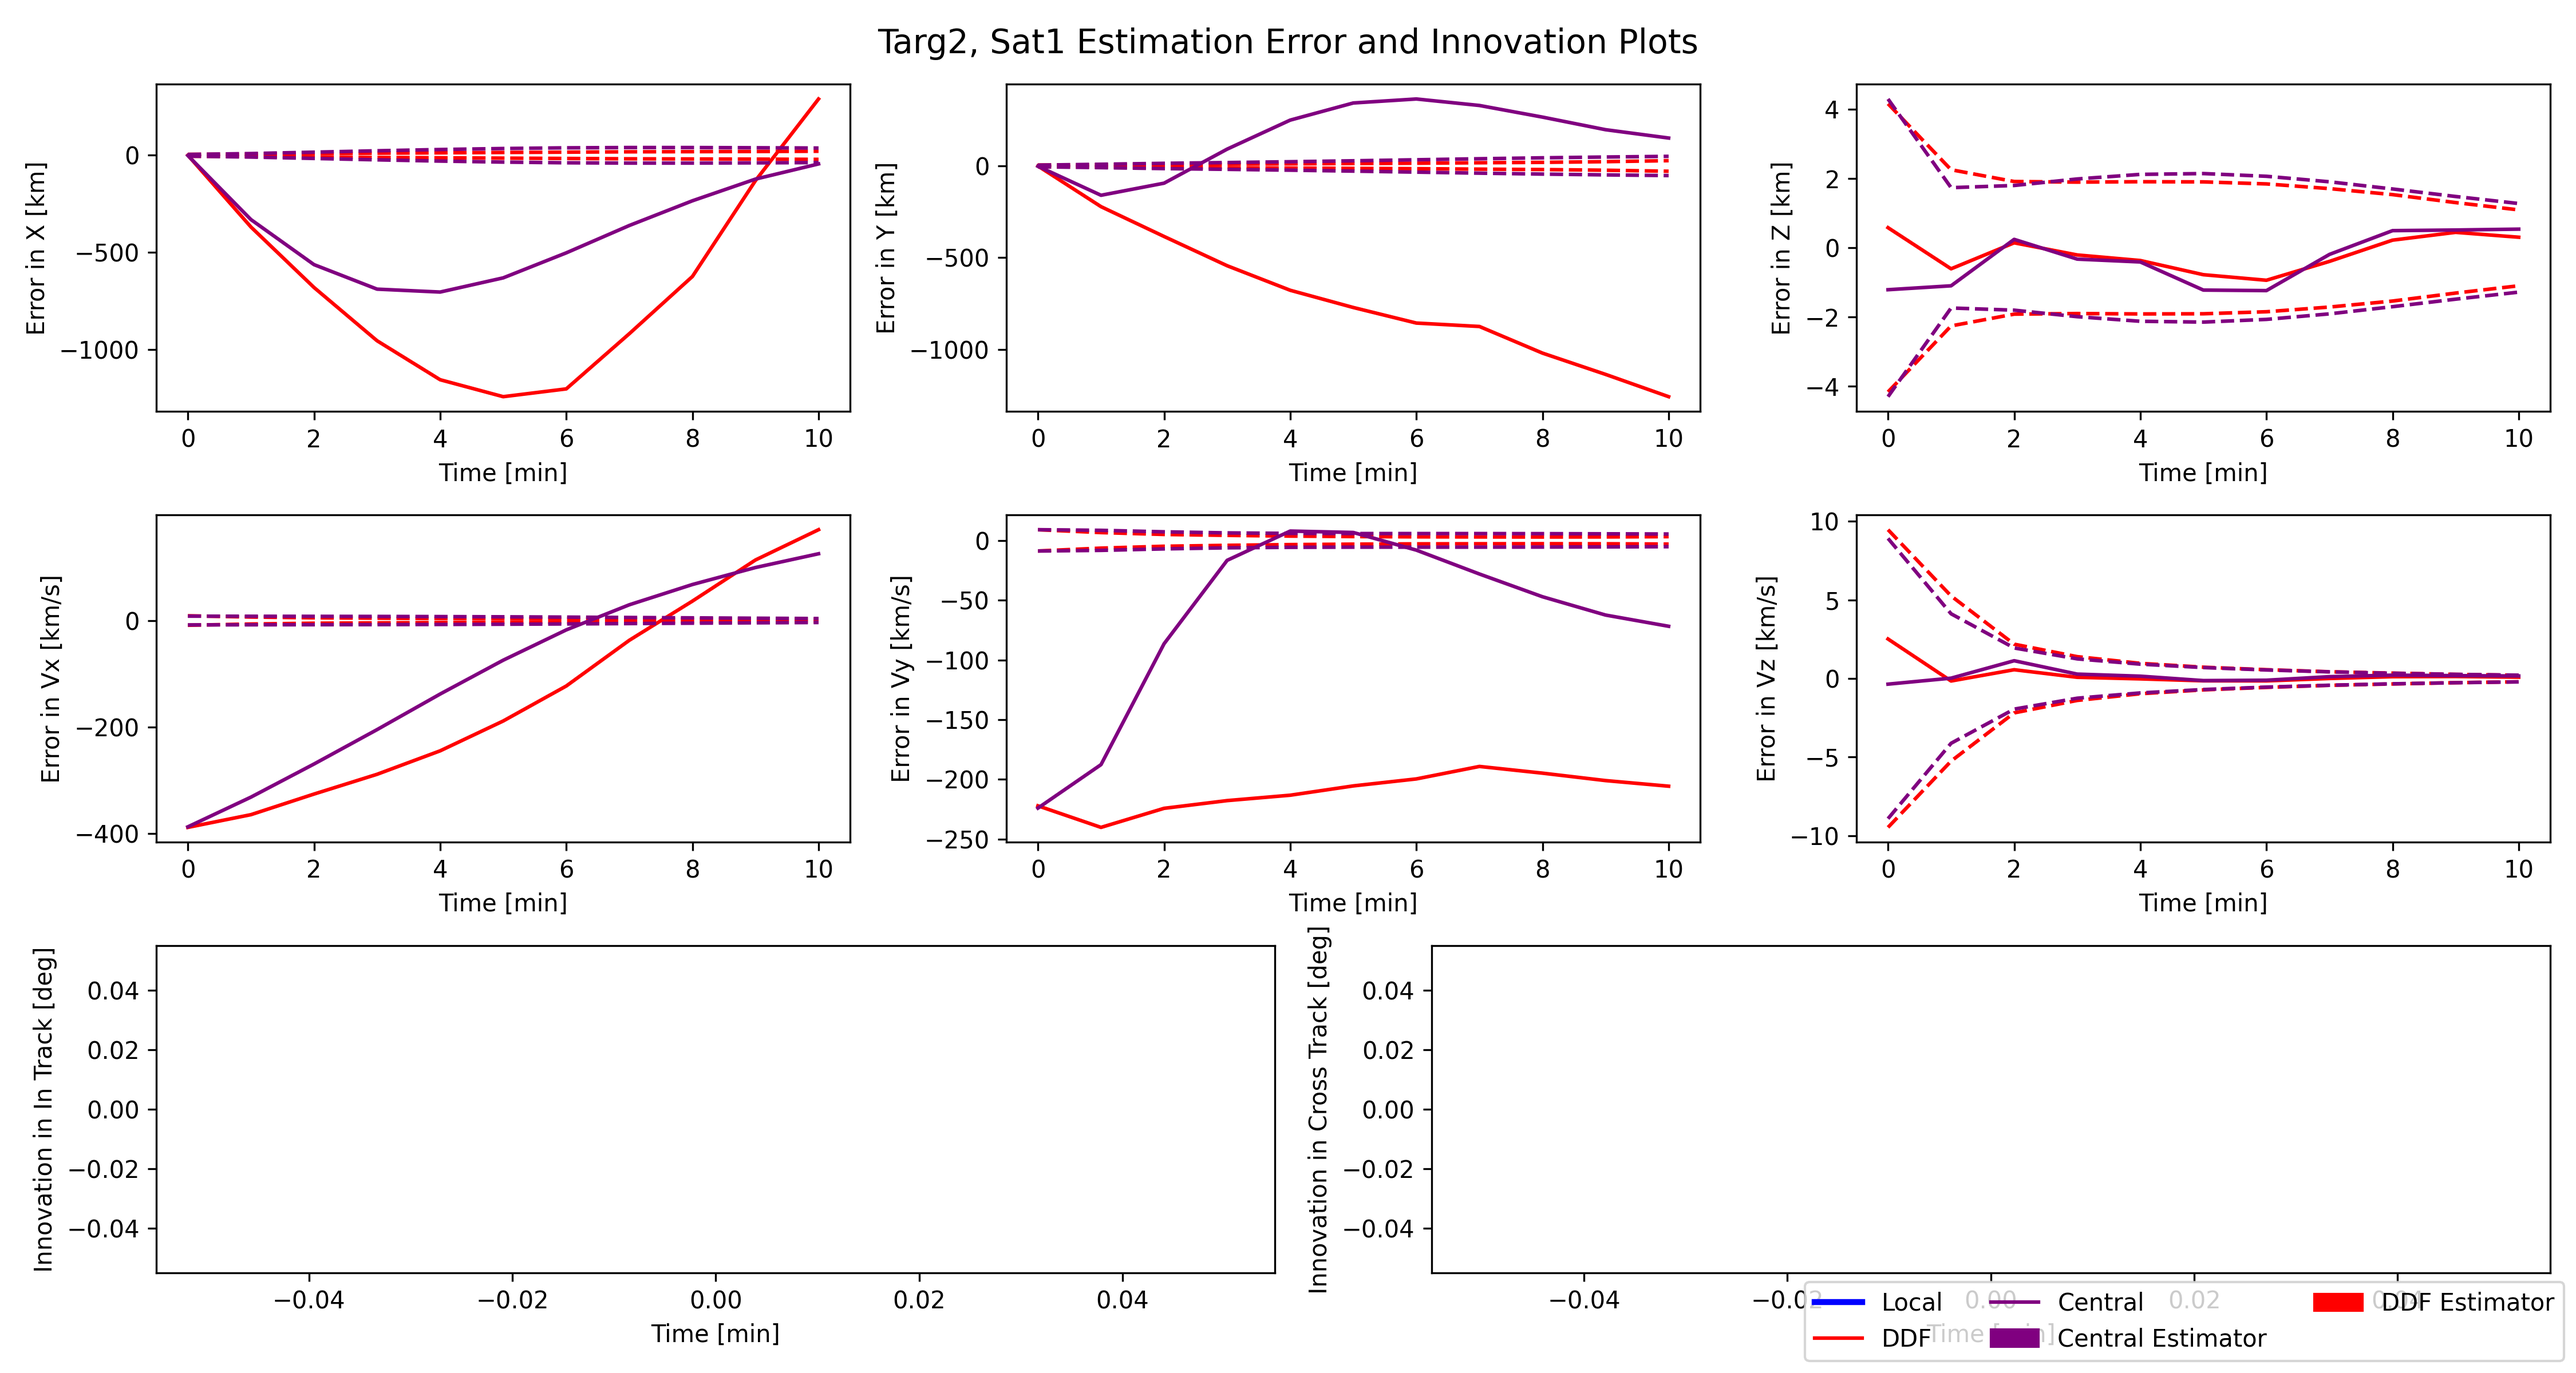
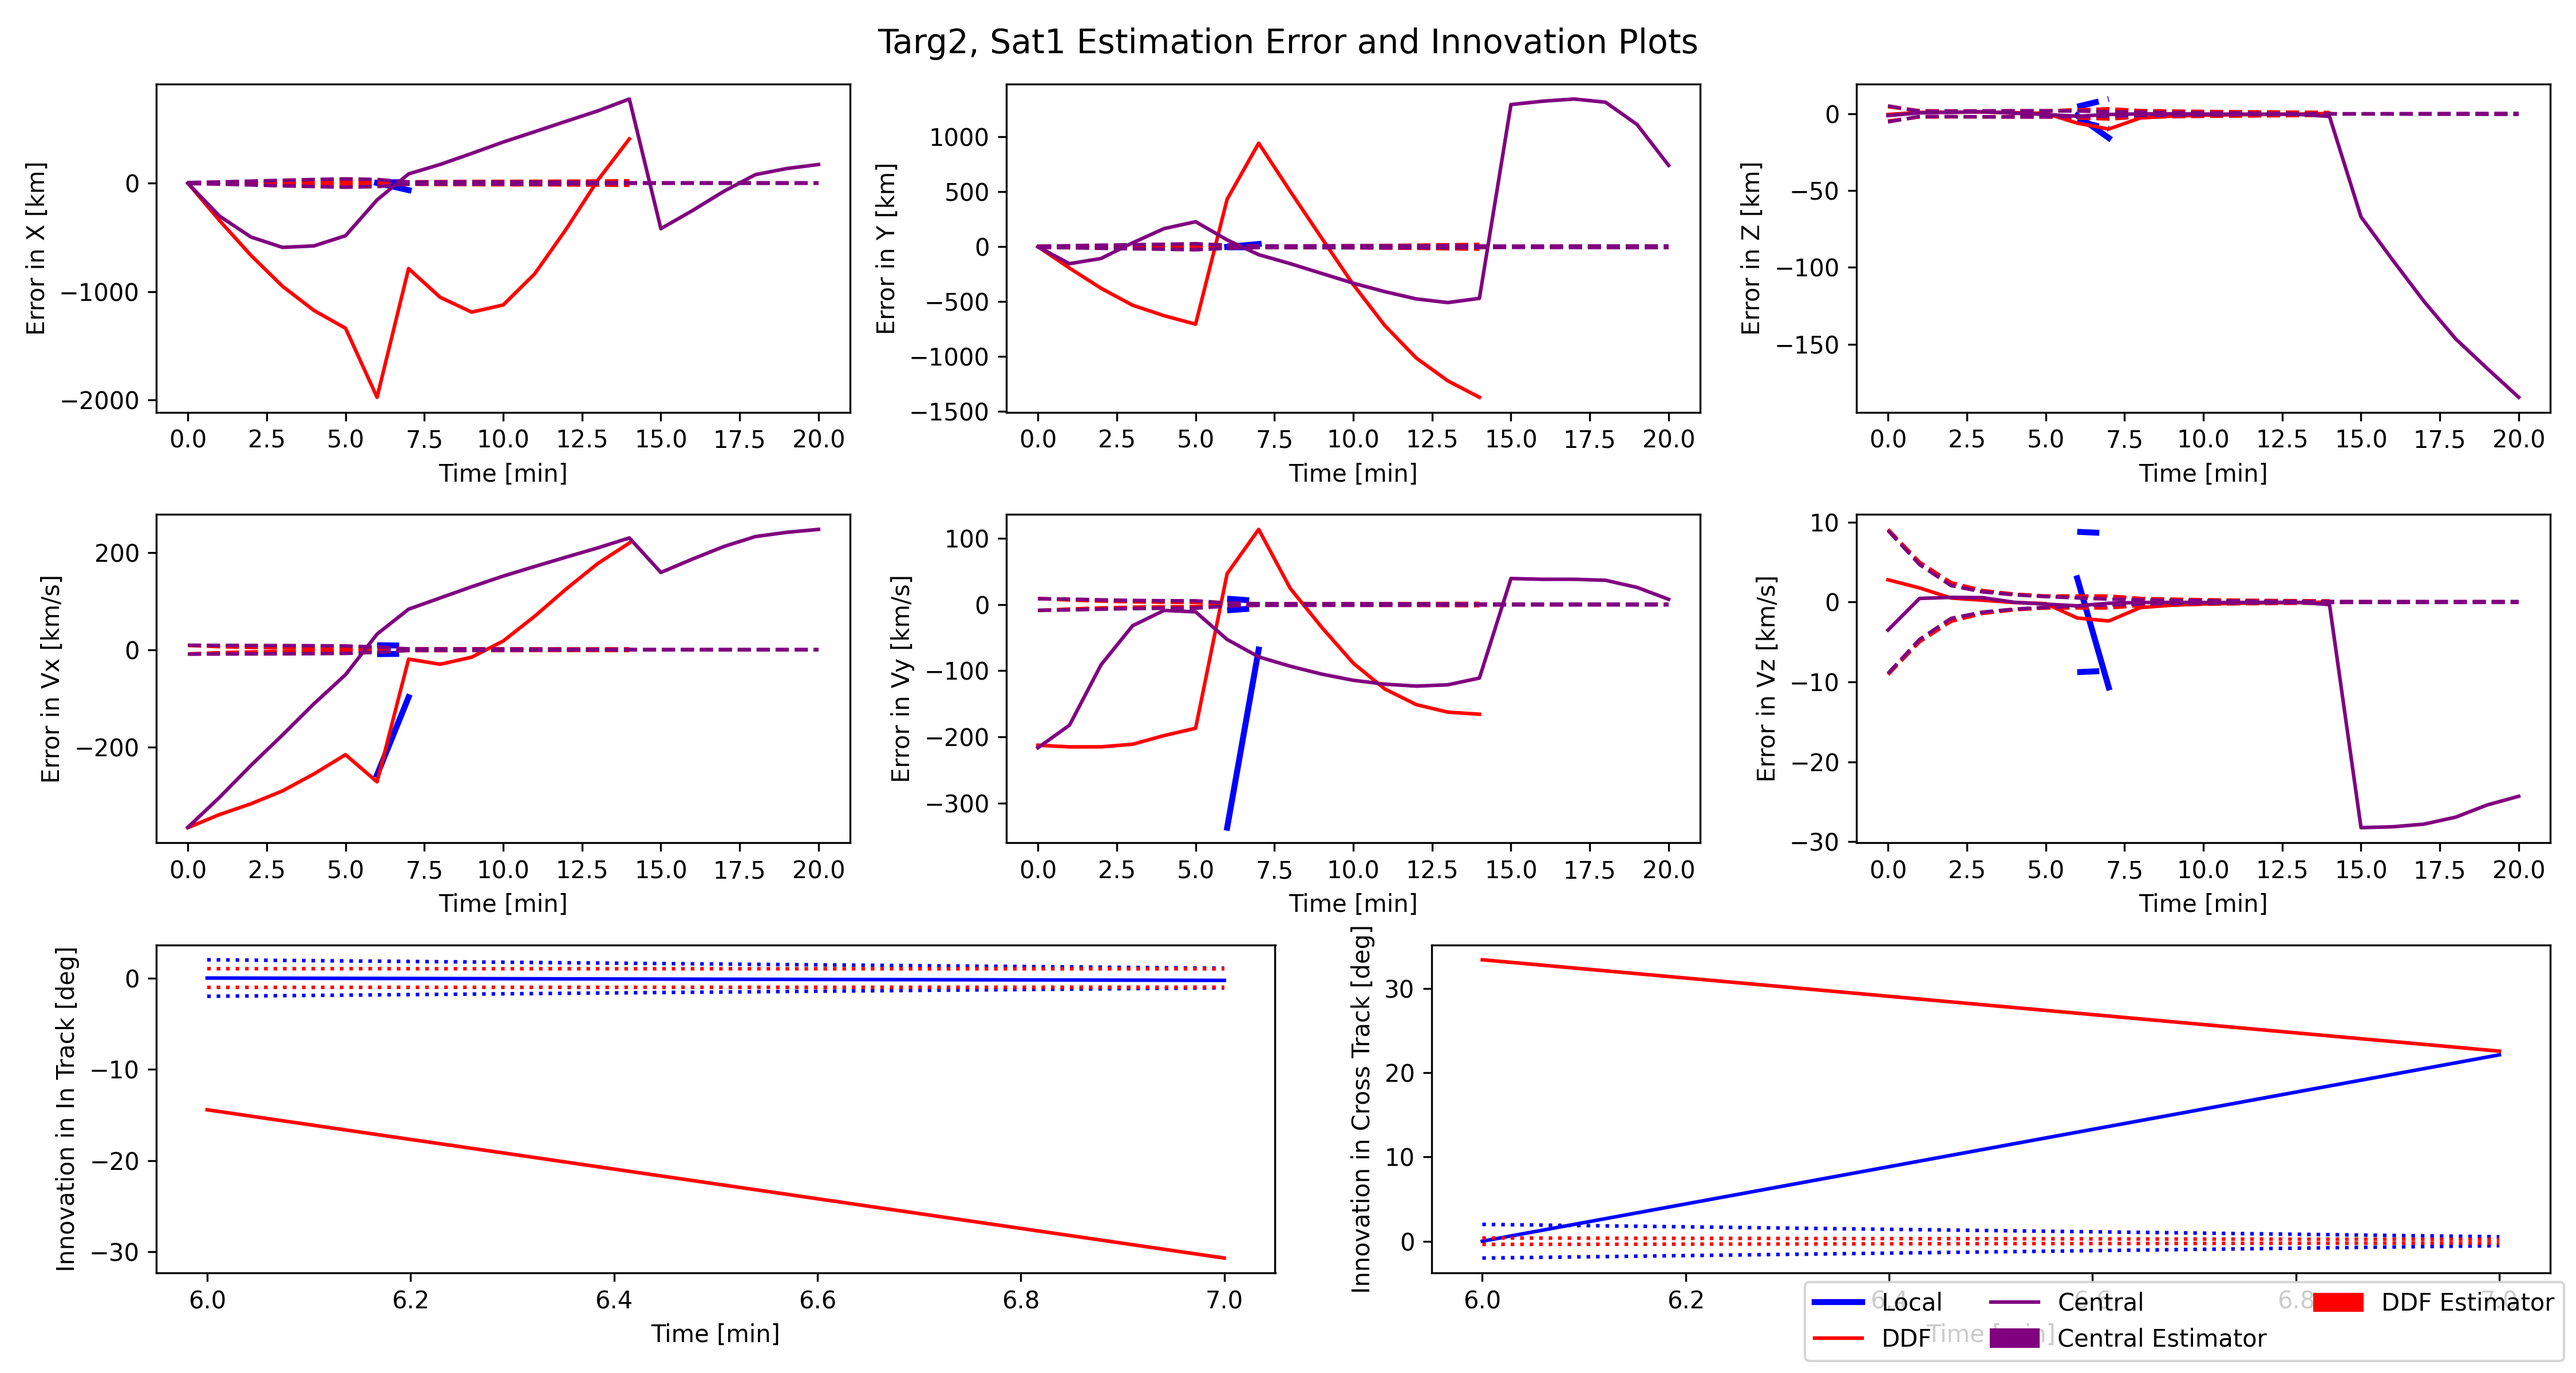
Stash

diff --git a/phase1/main.py b/phase1/main.py
@@ -29,7 +29,7 @@ def create_environment():
     central = centralEstimator(targetIDs = targetIDs) 
 
     # Define the satellites:
-    sat1 = satellite(name = 'Sat1', sensor = deepcopy(sens), targetIDs=targetIDs, indeptEstimator=deepcopy(local), ddfEstimator=deepcopy(ddf),  a = Earth.R + 1000 * u.km, ecc = 0, inc = 90, raan = -35, argp = 0, nu = 0, color='b')
+    sat1 = satellite(name = 'Sat1', sensor = deepcopy(sens), targetIDs=targetIDs, indeptEstimator=deepcopy(local), ddfEstimator=deepcopy(ddf),  a = Earth.R + 1000 * u.km, ecc = 0, inc = 90, raan = -35, argp = -15, nu = 0, color='b')
     sat2 = satellite(name = 'Sat2', sensor = deepcopy(sens), targetIDs=targetIDs, indeptEstimator=deepcopy(local), ddfEstimator=deepcopy(ddf),  a = Earth.R + 1000 * u.km, ecc = 0, inc = 0, raan = -35, argp = -25, nu = 0, color='c')
     # sat3 = satellite(name = 'Sat3', sensor = deepcopy(sens), targetIDs=targetIDs, indeptEstimator=deepcopy(local), ddfEstimator=deepcopy(ddf),  a = Earth.R + 1000 * u.km, ecc = 0, inc = 90, raan = -45, argp = -50, nu = 0, color='y')
     # sat4 = satellite(name = 'Sat4', sensor = deepcopy(sens), targetIDs=targetIDs, indeptEstimator=deepcopy(local), ddfEstimator=deepcopy(ddf),  a = Earth.R + 1000 * u.km, ecc = 0, inc = 0, raan = -45, argp = -30, nu = 0, color='r')
@@ -40,7 +40,7 @@ def create_environment():
 
     # Define the target objects:
     targ1 = target(name = 'Targ1', targetID=1, cords = np.array([90,0,0]), heading=0, speed=0, climbrate = 0, color = 'k')
-    targ2 = target(name = 'Targ2', targetID=2, cords = np.array([0,-60,0]), heading=90, speed=450, climbrate = 0, color = 'k')
+    targ2 = target(name = 'Targ2', targetID=2, cords = np.array([0,-60,0]), heading=90, speed=425, climbrate = 0, color = 'k')
     
     targs = [targ1, targ2]
 
@@ -208,7 +208,7 @@ def testCase_environment():
 
 if __name__ == "__main__":
     # Vector of time for simulation:
-    time_vec = np.linspace(0, 10, 11) * u.minute
+    time_vec = np.linspace(0, 20, 21) * u.minute
     
     env = create_environment()
     env.simulate(time_vec, savePlot = True, saveName = "new", showSim = True)
